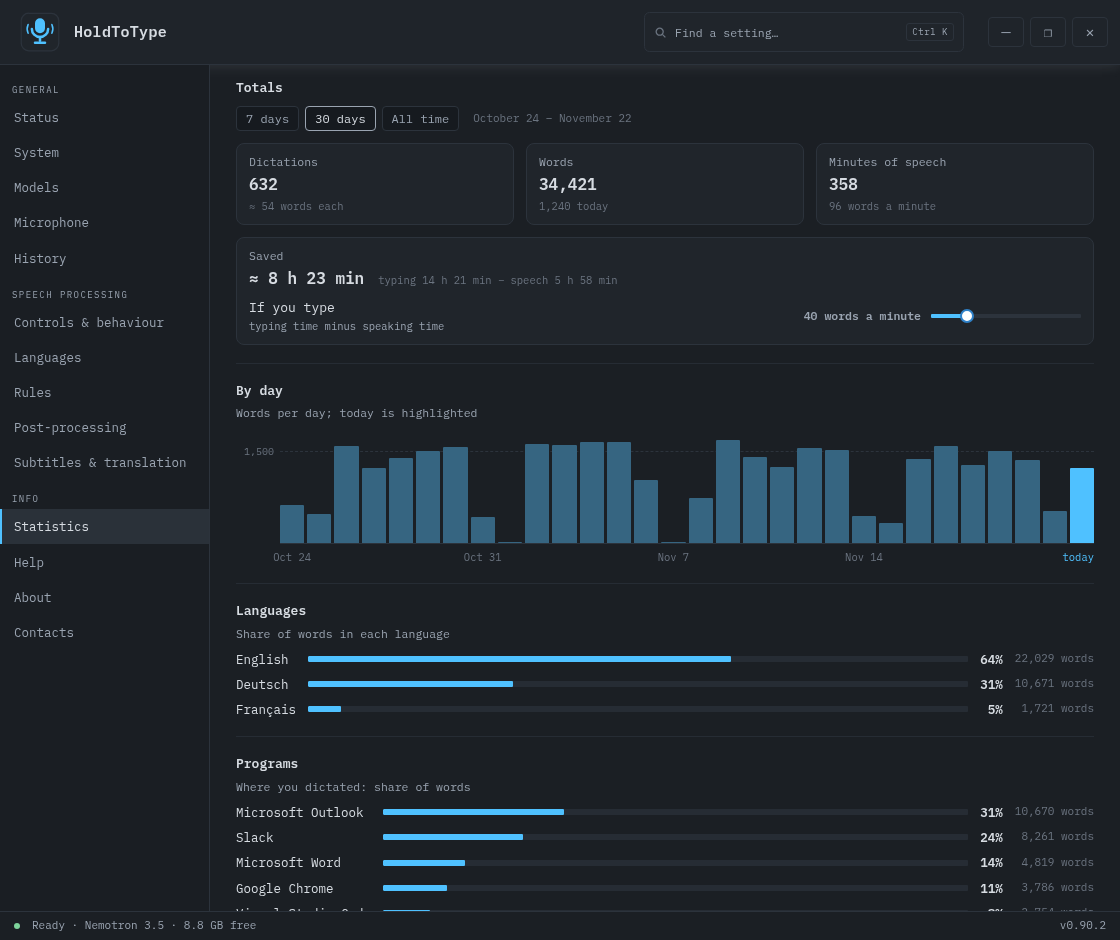
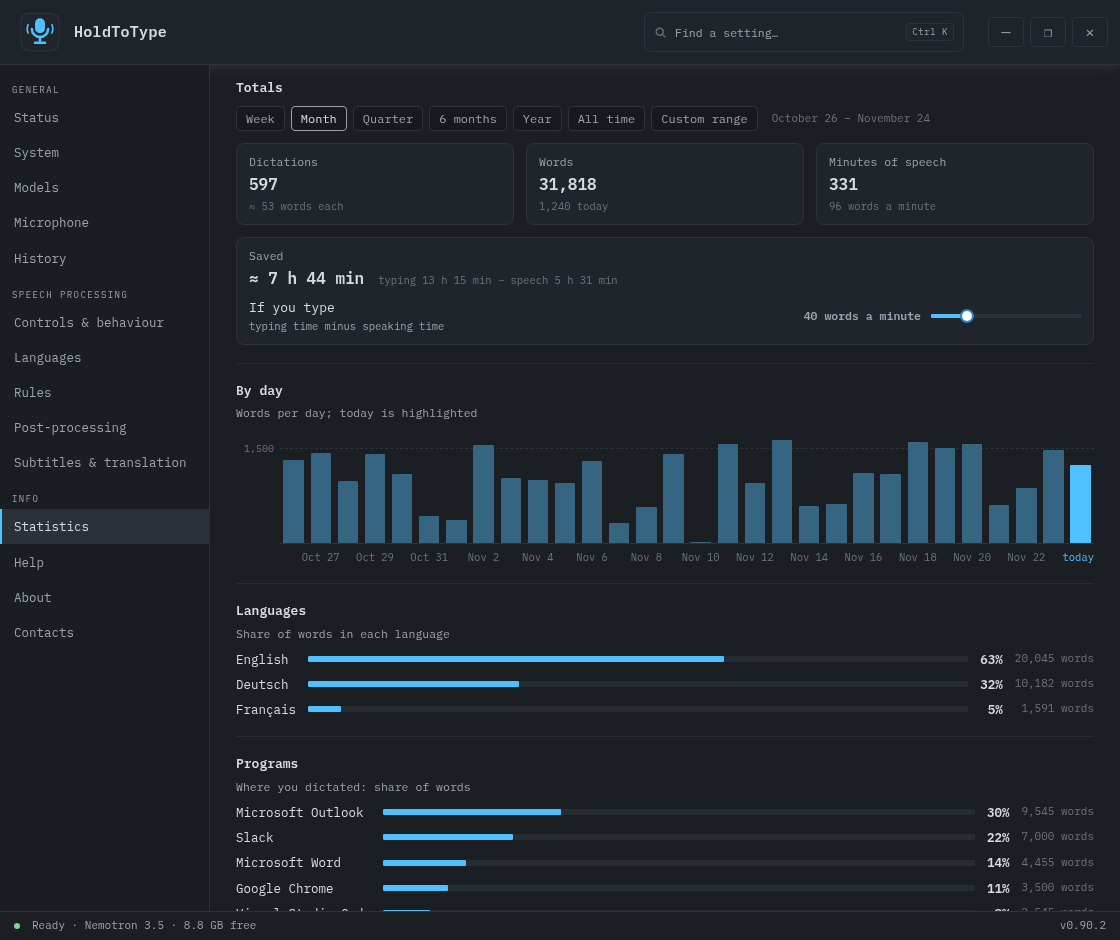
the readme describes the period chips, the calendar and the bars by day, week or month, and shows the status screen and the statistics tab afresh

diff --git a/README.md b/README.md
@@ -49,7 +49,7 @@ Every shot below is the Editor design, the default: dark grey with a blue accent
 | **Post-processing** | **Subtitles & translation** |
 | [![The editor model and the prompt chain](docs/shot-post.png)](docs/shot-post.png) | [![Subtitles for what the computer plays: translation in whole sentences and the Quality translator with its downloaded models](docs/shot-subs.png)](docs/shot-subs.png) |
 | **Statistics** | **Help** |
-| [![Statistics: words, dictations and the time saved, by day, language, program and model, and the subtitles](docs/shot-stats.png)](docs/shot-stats.png) | [![The guide with its contents pinned to the right](docs/shot-help.png)](docs/shot-help.png) |
+| [![Statistics: words, dictations and the time saved for the period you pick, by day, week or month, language, program and model, and the subtitles](docs/shot-stats.png)](docs/shot-stats.png) | [![The guide with its contents pinned to the right](docs/shot-help.png)](docs/shot-help.png) |
 | **About** | **Contacts** |
 | [![Version and every external dependency with its licence](docs/shot-about.png)](docs/shot-about.png) | [![Mail, repository and issues](docs/shot-contacts.png)](docs/shot-contacts.png) |
 | **Installer** | |
@@ -75,7 +75,7 @@ Every shot below is the Editor design, the default: dark grey with a blue accent
 - 🔤 **Replacements after recognition** — a list of what the model mishears and what it should become: `git hub` → GitHub, surnames, in-house terms. Each rule serves every language or is pinned to one, so a fix meant for one language never mangles a dictation in another. They run right after recognition and before the prompts, match whole words and ignore case by default, and a field right there tries them on any phrase without dictating.
 - 🗣 **Voice commands** — "new line", "new paragraph", "cancel", or your own phrase that drops in any text. "Delete that", said on its own, erases what the program inserted last, if nothing was typed or clicked since and the window is the same. Said at the end of a dictation, "as a heading", "as a list", "with a capital", "in quotes" or "no full stop" shapes that phrase; said on its own, it shapes the next one. Text already in the window is never edited. One button fills the list in your language. They run after the replacements, so prompts and translation get the finished text. In typing mode a line break is typed as a real Enter, which in a chat box sends the message — that is the point of the command. The line breaks the engine puts between its own segments are joined back into spaces first, so only the breaks you asked for reach the keyboard.
 - 🕘 **History of dictations** — off by default; turn it on and the last N dictations stay on this machine as text (never audio), searchable by text or by the program they went into, one click to copy, one to paste it back into the window you came from, one to wipe them all. The list of programs nothing is ever recorded from — password managers, banking apps — sits next to the switch and is never folded away. The retention you set is enforced when the history is opened and whenever you change it, not only when the next dictation arrives.
-- 📊 **Statistics** — how much you dictated and how much time it saved, kept on this machine as numbers per day and never as text: dictations, words and minutes of speech for 7 days, 30 days or all time, the time saved against a typing speed you set with a slider, words by day (by month for all time), by language and by program — under the name the program gives itself, such as Google Chrome — the average wait from releasing the keys to the text for each recognition model, and how long subtitles listened and translated. A program on the history's exclusion list is counted as "Other", never by name. The Status screen carries a card with today, the last 7 days and the time they saved; one button resets everything after asking.
+- 📊 **Statistics** — how much you dictated and how much time it saved, kept on this machine as numbers per day and never as text: dictations, words and minutes of speech for a week, a month, a quarter, half a year, a year, all time or a range of your own picked on a calendar, the time saved against a typing speed you set with a slider, words by day, week or month depending on the length of the period, by language and by program — under the name the program gives itself, such as Google Chrome — the average wait from releasing the keys to the text for each recognition model, and how long subtitles listened and translated. A program on the history's exclusion list is counted as "Other", never by name. The Status screen carries a card with today and the chosen period, the time it saved and its bars, with the same period chips in its header; the choice is one for both places and is remembered. One button resets everything after asking.
 - 📖 **Recognition dictionary** — terms and abbreviations hint rare words to Whisper. A starter set of development and internet vocabulary comes preinstalled and follows the recognition language; write your own and it is never touched again. When a dictation is translated, the hint switches to the target language, so the output vocabulary matches the output. Only Whisper models read it — the page says so plainly, since GigaAM, Parakeet and the rest never see the hint.
 - 🎨 **Design and colour, kept apart** — seven designs, all set in one face, IBM Plex Mono, carried inside the exe so they read the same on any machine. Editor is the default: dark grey with a blue accent, filled blue buttons for the main action of each section, grey for the rest, red for the destructive ones. Fluent follows the Windows 11 settings app — light-blue accent, a toggle that fills with the accent and carries a dark knob. Studio is graphite with orange, corners of three and four pixels, the look of an audio editor. Soft stands on light lilac with pill-shaped buttons and a purple toggle, Document on paper with blue kept for the main action and a two-pixel line on top of every card. Neon is violet: its main buttons take a pink-to-cyan gradient, its badges are pink, and the card with the shortcut is framed by the same gradient. Terminal is green on black with brackets around the buttons, square corners and a halo on the text. Each design sets its own corner radius for buttons, fields, cards and key chips, the colours of its toggle in both states, the colours of its badges and of the shortcut keys, the way the level meter moves and what the pill does the moment the text lands: Terminal blinks, Neon flares, Soft bounces, the rest stay still. The window takes the corners its design asks for — rounded, small for Studio, square for Terminal — and a light design carries its light through everything the program draws: the title bar Windows itself paints, the plate, the tray menu, the tray icon and the installer. Colour is offered to Terminal alone — green, amber, blue, pink — and touches nothing but the colour of the window, the plate and the tray icon; the other designs bring their own. The design is picked with seven small cards, each a tiny window drawn in that design, and either choice repaints the whole program at once, with no restart. The installer follows the design of the copy it is updating, down to its buttons, toggles and window corners.
 - 🗣 **8 UI languages** — English, Ukrainian, German, French, Spanish, Italian, Polish, Russian. Everything is translated: screens, dialogs, the overlay, the tray, the uninstaller and the in-app guide. Switching is instant, "Same as system" follows Windows.
@@ -148,7 +148,7 @@ Left-click the tray icon to open the settings window. Fourteen sections in three
 
 | Section | Contents |
 |---|---|
-| **Status** | is everything ready, at a glance: hotkey, microphone with a level meter the width of its card, the model behind the current language, the post-processing model, free memory — with the models actually sitting in it named right beside, so the number means something — and the last dictation with *Copy* and an honest word about how it sounded: level fine, too quiet, clipped. Right under the dictation card, a card for subtitles: off, loading their model, running or restarting, with the model and how the text arrives, their shortcut when one is set, a button that starts or stops them, the translation switch and the three layout cards of their tab in a smaller size — in two rows, in two columns, translation only — the same choice as there — the *Save the transcript* switch, also the same as there and obeyed from the next phrase even mid-run, and an arrow to their tab. Under the version and memory plates, a statistics card: words and dictations today and in the last 7 days and the time those 7 days saved, with an arrow to the Statistics tab, and before the first dictation a line saying what will appear there; it is there whether the history is on or off. Below: every model in use with the languages it serves and the models installed locally. When the recognizer will not start, this screen says why and offers *Try again* — no app restart |
+| **Status** | is everything ready, at a glance: hotkey, microphone with a level meter the width of its card, the model behind the current language, the post-processing model, free memory — with the models actually sitting in it named right beside, so the number means something — and the last dictation with *Copy* and an honest word about how it sounded: level fine, too quiet, clipped. Right under the dictation card, a card for subtitles: off, loading their model, running or restarting, with the model and how the text arrives, their shortcut when one is set, a button that starts or stops them, the translation switch and the three layout cards of their tab in a smaller size — in two rows, in two columns, translation only — the same choice as there — the *Save the transcript* switch, also the same as there and obeyed from the next phrase even mid-run, and an arrow to their tab. Under the version and memory plates, a statistics card: words and dictations today and in the chosen period, the time that period saved and its bars, with the period chips of the Statistics tab in its header and an arrow to that tab, and before the first dictation a line saying what will appear there; it is there whether the history is on or off. Below: every model in use with the languages it serves and the models installed locally. When the recognizer will not start, this screen says why and offers *Try again* — no app restart |
 | **History** | the switch that turns it on; how long an entry lives — any number of minutes, hours or days, typed by hand — and how many entries to keep at most; the programs nothing is ever recorded from, added from the list of open windows and worn as removable chips; search, and per entry: copy, paste back into the window you came from, delete, and clearing everything. Three blocks parted by a line, and every entry says the day it goes |
 | **Controls & behaviour** | the hotkey, hold or toggle, the recognition model with its language right beside the shortcut they serve, auto-Enter, stop on silence in toggle mode, recording durations, clipboard restore, character-by-character typing, the on-screen overlay with its little screen map — eight positions, a draggable miniature, cursor-follow, and a monitor choice when there is more than one — and the whole of translation: target language, when to ask, dialog languages, its own shortcut |
 | **Microphone** | input device with a live level meter, recording cue sounds and the sound theme |
@@ -158,7 +158,7 @@ Left-click the tray icon to open the settings window. Fourteen sections in three
 | **Post-processing** | the editor model, picked from a list of the installed ones, with its size and the memory, and two plates that lead to the Hugging Face search and to the installed models on the Models tab, the chain of editing prompts with their shortcuts, and the external OpenAI-compatible server for those who want one |
 | **Subtitles & translation** | the button that starts and stops subtitles, on the right of a line saying what they are doing — off, loading the model, listening and how the text arrives, or restarting; a shortcut of their own; the language of what you listen to, with the model it gets and whether the words come as they are spoken or after each phrase, a plain warning when that model is a Whisper one that will lag far behind on a processor or is not installed, with a jump to its language on “Languages”; translation as a switch, with its language — one of the eight — kept while it is off, and one line under the heading that says why nothing is translated: the model or a language pack is not downloaded or is still downloading, the server is not set up, or the translation language is the speech language itself; the translator, a block of its own with one of three cards — Quality with a line saying the translator finds the topic and the terms by itself, the downloaded translation models and your own `.gguf` files as cards with a switch that picks one — the bars, the graphics card memory, the size on disk, the percent and a cancel cross while one downloads, a warning on your own file and on a model that does not fit — a plate that leads to the models to download, and, with no model yet, a button that downloads the recommended one or a line that says why this computer cannot run it; why the engine did not start is said in the line under the heading; under the translation language, the “Translate whole sentences” switch, or, while its model is not downloaded, a line saying so with a button that downloads it and turns the setting on, and the percent and a cancel cross while it downloads; Fast with the language pairs you added, each with its state, its download and its removal, the disk space they take, and a dialog that adds a pair, with the sizes and a word about pairs that are translated in two steps through English; External server with the post-processing server, its test, its editing and its clearing — and a question that names the size before a translator that is not downloaded yet is chosen; the window block: the layout as three picture cards — the parts of a translated window in two rows, in two columns, or the translation alone in an unsplit window — the rows of text — in each part of the window when translation is on — the text size as three tiles of letters, small, medium and large, the window's place on the plate's picture of a screen with a spot of your own and the monitor, and a button that forgets the sizes set by the mouse; saving the transcript and a button that opens its folder |
 | **System** | three groups without headings — how the app looks (interface language, design picked from seven small cards that each show a tiny window in that design, colour), how it starts and keeps itself current (start with Windows, check for updates, check now), and the maintenance buttons (open the log, re-read config.json, reset the settings), all of one width. Below, the recognition server as two cards that are one choice: a radio in each header (square on the terminal design, round on the others), the whole card clickable, and the one you did not pick keeps its colours so its port and address stay readable. On this computer — threads, autostart, port and the path to whisper-server, edited in a window of its own — or on another one, with its address. Choosing the remote one without an address is an honest failure: the Status card goes red, the badge beside System turns red, and the status bar says recognition is unavailable |
-| **Statistics** | the first tab of Info. Totals for 7 days, 30 days or all time, picked with chips like the ones on History, with the dates beside them: dictations, words and minutes of speech, and the time saved — typing the words at your speed minus speaking them, in whole minutes, with both parts shown and a slider for the typing speed from 10 to 150 words a minute. Below: words by day as bars with today highlighted (by month for all time), languages and programs with their share and words — the top five programs and "Other" — the average wait from releasing the keys to the text per recognition model with the number of dictations, and subtitles: time listened, time translated and the translation by language pair. A line at the bottom says that only numbers per day are kept, on this computer, beside a button that resets them after asking. Before the first dictation the tab shows what will appear there and the shortcut to dictate with |
+| **Statistics** | the first tab of Info. Totals for a week, a month, a quarter, half a year, a year, all time or a range of your own — two date fields that open a calendar drawn in the window's style — picked with chips like the ones on History, with the dates beside them; the choice is shared with the Status card and remembered: dictations, words and minutes of speech, and the time saved — typing the words at your speed minus speaking them, in whole minutes, with both parts shown and a slider for the typing speed from 10 to 150 words a minute. Below: words as bars — by day up to 31 days, by week up to half a year, by month for longer ranges and for all time — with the current day, week or month highlighted, languages and programs with their share and words — the top five programs and "Other" — the average wait from releasing the keys to the text per recognition model with the number of dictations, and subtitles: time listened, time translated and the translation by language pair. A line at the bottom says that only numbers per day are kept, on this computer, beside a button that resets them after asking. Before the first dictation the tab shows what will appear there and the shortcut to dictate with |
 | **Help** | the manual: eighteen sections written for people rather than for the interface — what happens after you release the keys, what each tab does, what every option changes and what it costs, what lives in the app folder, what leaves for the internet, and what to do when something misbehaves, with mock-ups of the plate, the cards and the fields drawn inline. The contents sit in a column on the right that follows you as you read; on a narrow window an icon in the corner widens the window to bring them back |
 | **About** | the version, what the app is made of, and every external dependency — engine, library, font, catalogue — with its licence, its address and a plain line about what it does here and when it runs |
 | **Contacts** | three cards of equal height — the mail address, the repository and the page for bugs and ideas — each saying what it is for, with the address spelled out in full as plain text and one button at the bottom: Write opens your mail program, Open the repository, Report the page for bugs and ideas; an icon beside the mail address copies it |
@@ -238,7 +238,7 @@ docker build --file build/Dockerfile --target gotest .        # Go unit tests + 
 docker run --rm -v "${PWD}:/w" -w /w node:20 sh -c "node test/build-page.js && node test/build-page.js ru && cd test && npm i --no-save --silent jsdom && node ui.test.js && node models.test.js && node help.test.js"
 ```
 
-- `client/internal/...` — unit tests for the pieces that carry logic: version comparison, hotkey duplicates, per-application rules, replacements, voice commands, history, statistics (word counting, periods and months, the other-programs rule, reset, a damaged file, concurrent writes), prompt chains, sound analysis, file hashes and the lists file.
+- `client/internal/...` — unit tests for the pieces that carry logic: version comparison, hotkey duplicates, per-application rules, replacements, voice commands, history, statistics (word counting, any range of days by day, week and month, the other-programs rule, reset, a damaged file, concurrent writes), prompt chains, sound analysis, file hashes and the lists file.
 - `test/ui.test.js` — the real settings page rendered in jsdom: section switching, the translation enable/disable matrix, the prompt editor accordion, rules, replacements, commands and their file, history with copy and paste-back, the statistics card and tab with plural forms and the saved-time rule, model deletion and the model check, the first-run wizard, and "no JavaScript errors".
 - `test/models.test.js` — the Models tab and the tabs that use it, on a page of its own with English and Russian strings: the blocks and their order, what each model is used for, deleting a free model and a model in use with the languages, Auto-detect, post-processing and subtitle translation left working after it, a download moving a model to the installed ones, the “Translate whole sentences” row without its model, downloading, on and off, with its model on the Models tab, the Hugging Face search with its magnifier, Enter and cross, an unfolded language without icons, the editor list and its empty state, the plates that lead between tabs, and sizes in the units of the interface language.
 - `test/help.test.js` — the help against the settings page, in all eight languages: every row, block heading, choice card and button of a tab is named in that tab's help section, and every row of the help tables names something that is on the tab.
